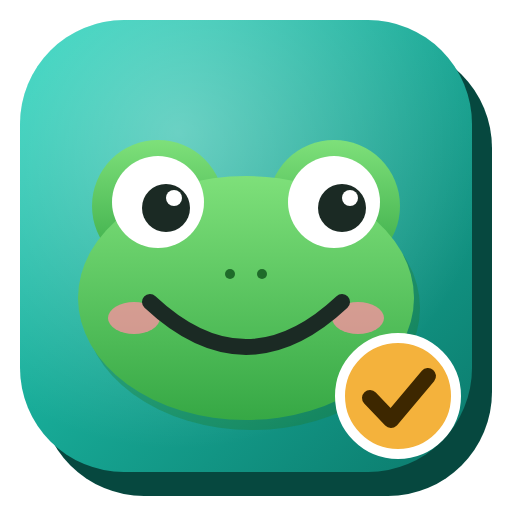
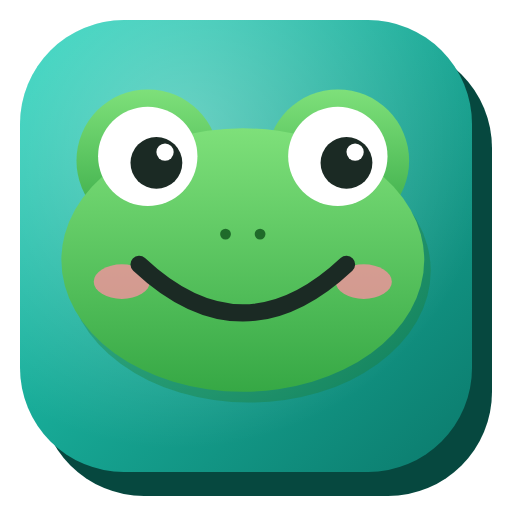
Fredi überall gleich: neues App-Symbol ohne Häkchen, Fredi statt Emoji (v1.1.2)

Changed region(s): [[0.0938, 0.1562, 0.9062, 0.9062], [0.5, 0.4375, 0.5312, 0.4688], [0.4375, 0.5312, 0.4688, 0.5625]]

diff --git a/desktop/app/index.html b/desktop/app/index.html
@@ -19,6 +19,10 @@
 <link rel="preconnect" href="https://fonts.gstatic.com" crossorigin>
 <link href="https://fonts.googleapis.com/css2?family=Unbounded:wght@400;500;700;900&family=Space+Grotesk:wght@400;500;600;700&family=Inter:wght@400;500;600;700&display=swap" rel="stylesheet">
 <style>
+/* Fredi der Frosch (dasselbe Bild wie im App-Symbol, ersetzt überall das Frosch-Emoji) */
[1 lines of base64/hex data omitted]
+img.fredi{ display:inline-block; width:1.2em; height:1.07em; vertical-align:-.2em; object-fit:contain; margin:0 .02em; }
+
 :root{
   --ink:#161d1b;
   --ink-soft:#616b66;
@@ -311,7 +315,7 @@ input[type=checkbox]{ width:16px; height:16px; cursor:pointer; accent-color:var(
 .pstatus.warn{ color:var(--q1-side); font-weight:600; }
 .pstatus.good{ color:var(--q2-side); font-weight:600; }
 tbody tr.frog td.num{ color:var(--q2); }
-tbody tr.frog td.num::after{ content:"🐸"; font-size:10px; margin-left:1px; }
+tbody tr.frog td.num::after{ content:""; display:inline-block; width:12px; height:11px; margin-left:2px; vertical-align:-1px; background:var(--fredi) center/contain no-repeat; -webkit-print-color-adjust:exact; print-color-adjust:exact; }
 
 /* Konfetti */
 #confetti{ position:fixed; inset:0; pointer-events:none; z-index:50; }
@@ -904,7 +908,7 @@ html.view input[type=text]:focus, html.view textarea:focus{ background:transpare
   .fcard:hover{ border-color:var(--mint); transform:translateY(-3px); }
   .fcard b{ display:block; font-size:16px; margin-top:8px; }
   .fcard.on{ background:linear-gradient(135deg,#13b3a0,#0a6e62); border-color:#8de0d3; box-shadow:0 12px 30px rgba(19,179,160,.35); }
-  .fcard.on::after{ content:"🐸"; position:absolute; top:-14px; right:-10px; font-size:34px; }
+  .fcard.on::after{ content:""; position:absolute; top:-14px; right:-12px; width:44px; height:39px; background:var(--fredi) center/contain no-repeat; }
   .fcard .sug{ position:absolute; top:-10px; left:14px; font-size:10.5px; font-weight:700; background:#f4b23c; color:#3d2700; border-radius:999px; padding:2px 9px; }
   .olist{ list-style:none; margin-top:18px; display:flex; flex-direction:column; gap:7px; }
   .olist li{ display:flex; align-items:center; gap:12px; background:rgba(255,255,255,.05); border-radius:12px; padding:10px 14px; font-size:15px; }
@@ -2014,6 +2018,35 @@ html.view input[type=text]:focus, html.view textarea:focus{ background:transpare
 
 </main>
 
+<script>
+// ---------- Fredi statt Emoji: jedes 🐸 auf der Seite wird zum echten Fredi ----------
+(function(){
[1 lines of base64/hex data omitted]
+  const SKIP = /^(SCRIPT|STYLE|TEXTAREA|INPUT|OPTION|TITLE|NOSCRIPT)$/;
+  function swap(t){
+    const p = t.parentNode;
+    if(!p || SKIP.test(p.nodeName) || p.closest && p.closest('svg')) return;
+    const parts = t.nodeValue.split('🐸'); if(parts.length < 2) return;
+    const frag = document.createDocumentFragment();
+    parts.forEach((x,i)=>{
+      if(i){ const im = document.createElement('img'); im.className = 'fredi'; im.src = SRC; im.alt = '🐸'; im.draggable = false; frag.appendChild(im); }
+      if(x) frag.appendChild(document.createTextNode(x));
+    });
+    p.replaceChild(frag, t);
+  }
+  function walk(root){
+    if(root.nodeType === 3){ if(root.nodeValue.includes('🐸')) swap(root); return; }
+    if(root.nodeType !== 1 || SKIP.test(root.nodeName)) return;
+    const w = document.createTreeWalker(root, NodeFilter.SHOW_TEXT, { acceptNode: n=> n.nodeValue.includes('🐸') ? 1 : 3 });
+    const list = []; while(w.nextNode()) list.push(w.currentNode); list.forEach(swap);
+  }
+  window.frediSwap = walk;
+  walk(document.body);
+  new MutationObserver(ms=> ms.forEach(m=>{
+    if(m.type === 'characterData') walk(m.target); else m.addedNodes.forEach(walk);
+  })).observe(document.body, { childList:true, subtree:true, characterData:true });
+})();
+</script>
 <script>
 // Die Seite so, wie sie geladen wurde – daraus wird die Datei zum Versenden gebaut.
 const PRISTINE = '<!DOCTYPE html>\n' + document.documentElement.outerHTML;

diff --git a/index.html b/index.html
@@ -19,6 +19,10 @@
 <link rel="preconnect" href="https://fonts.gstatic.com" crossorigin>
 <link href="https://fonts.googleapis.com/css2?family=Unbounded:wght@400;500;700;900&family=Space+Grotesk:wght@400;500;600;700&family=Inter:wght@400;500;600;700&display=swap" rel="stylesheet">
 <style>
+/* Fredi der Frosch (dasselbe Bild wie im App-Symbol, ersetzt überall das Frosch-Emoji) */
[1 lines of base64/hex data omitted]
+img.fredi{ display:inline-block; width:1.2em; height:1.07em; vertical-align:-.2em; object-fit:contain; margin:0 .02em; }
+
 :root{
   --ink:#161d1b;
   --ink-soft:#616b66;
@@ -311,7 +315,7 @@ input[type=checkbox]{ width:16px; height:16px; cursor:pointer; accent-color:var(
 .pstatus.warn{ color:var(--q1-side); font-weight:600; }
 .pstatus.good{ color:var(--q2-side); font-weight:600; }
 tbody tr.frog td.num{ color:var(--q2); }
-tbody tr.frog td.num::after{ content:"🐸"; font-size:10px; margin-left:1px; }
+tbody tr.frog td.num::after{ content:""; display:inline-block; width:12px; height:11px; margin-left:2px; vertical-align:-1px; background:var(--fredi) center/contain no-repeat; -webkit-print-color-adjust:exact; print-color-adjust:exact; }
 
 /* Konfetti */
 #confetti{ position:fixed; inset:0; pointer-events:none; z-index:50; }
@@ -904,7 +908,7 @@ html.view input[type=text]:focus, html.view textarea:focus{ background:transpare
   .fcard:hover{ border-color:var(--mint); transform:translateY(-3px); }
   .fcard b{ display:block; font-size:16px; margin-top:8px; }
   .fcard.on{ background:linear-gradient(135deg,#13b3a0,#0a6e62); border-color:#8de0d3; box-shadow:0 12px 30px rgba(19,179,160,.35); }
-  .fcard.on::after{ content:"🐸"; position:absolute; top:-14px; right:-10px; font-size:34px; }
+  .fcard.on::after{ content:""; position:absolute; top:-14px; right:-12px; width:44px; height:39px; background:var(--fredi) center/contain no-repeat; }
   .fcard .sug{ position:absolute; top:-10px; left:14px; font-size:10.5px; font-weight:700; background:#f4b23c; color:#3d2700; border-radius:999px; padding:2px 9px; }
   .olist{ list-style:none; margin-top:18px; display:flex; flex-direction:column; gap:7px; }
   .olist li{ display:flex; align-items:center; gap:12px; background:rgba(255,255,255,.05); border-radius:12px; padding:10px 14px; font-size:15px; }
@@ -2014,6 +2018,35 @@ html.view input[type=text]:focus, html.view textarea:focus{ background:transpare
 
 </main>
 
+<script>
+// ---------- Fredi statt Emoji: jedes 🐸 auf der Seite wird zum echten Fredi ----------
+(function(){
[1 lines of base64/hex data omitted]
+  const SKIP = /^(SCRIPT|STYLE|TEXTAREA|INPUT|OPTION|TITLE|NOSCRIPT)$/;
+  function swap(t){
+    const p = t.parentNode;
+    if(!p || SKIP.test(p.nodeName) || p.closest && p.closest('svg')) return;
+    const parts = t.nodeValue.split('🐸'); if(parts.length < 2) return;
+    const frag = document.createDocumentFragment();
+    parts.forEach((x,i)=>{
+      if(i){ const im = document.createElement('img'); im.className = 'fredi'; im.src = SRC; im.alt = '🐸'; im.draggable = false; frag.appendChild(im); }
+      if(x) frag.appendChild(document.createTextNode(x));
+    });
+    p.replaceChild(frag, t);
+  }
+  function walk(root){
+    if(root.nodeType === 3){ if(root.nodeValue.includes('🐸')) swap(root); return; }
+    if(root.nodeType !== 1 || SKIP.test(root.nodeName)) return;
+    const w = document.createTreeWalker(root, NodeFilter.SHOW_TEXT, { acceptNode: n=> n.nodeValue.includes('🐸') ? 1 : 3 });
+    const list = []; while(w.nextNode()) list.push(w.currentNode); list.forEach(swap);
+  }
+  window.frediSwap = walk;
+  walk(document.body);
+  new MutationObserver(ms=> ms.forEach(m=>{
+    if(m.type === 'characterData') walk(m.target); else m.addedNodes.forEach(walk);
+  })).observe(document.body, { childList:true, subtree:true, characterData:true });
+})();
+</script>
 <script>
 // Die Seite so, wie sie geladen wurde – daraus wird die Datei zum Versenden gebaut.
 const PRISTINE = '<!DOCTYPE html>\n' + document.documentElement.outerHTML;

diff --git a/sw.js b/sw.js
@@ -1,6 +1,6 @@
 // Tagesplan als App: zuerst aus dem Internet laden (immer die neueste Version),
 // ohne Verbindung die zuletzt gespeicherte Version zeigen.
-const CACHE = 'tagesplan-v1';
+const CACHE = 'tagesplan-v2';
 self.addEventListener('install', ()=> self.skipWaiting());
 self.addEventListener('activate', e=> e.waitUntil(self.clients.claim()));
 self.addEventListener('fetch', e=>{
